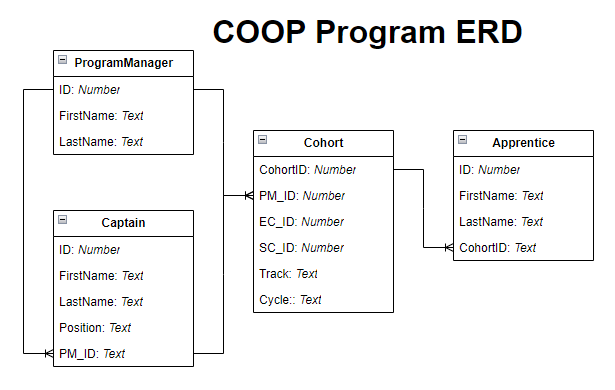
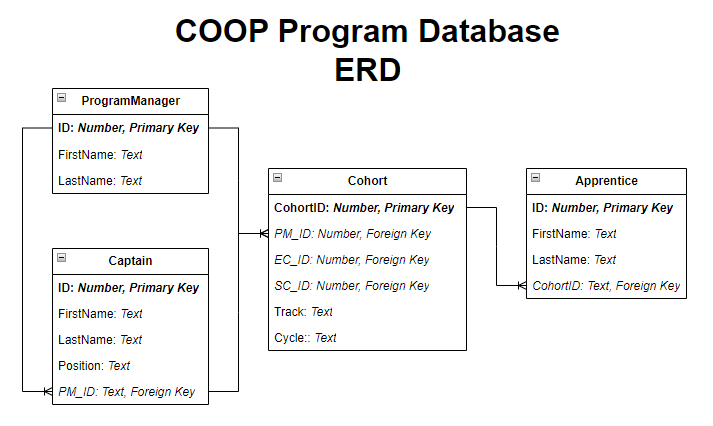
Updated SQL 101 and Added Theory Page

Changed region(s): [[0.0309, 0.1231, 0.9886, 0.9538], [0.2472, 0.0308, 0.865, 0.2154]]

diff --git a/COOP SQL 101 - Theory - Intro to Databases and Relational Databases.md b/COOP SQL 101 - Theory - Intro to Databases and Relational Databases.md
@@ -1,0 +1,146 @@
+# SQL 101 - Intro to Databases and Querying
+
+By: Martin Arroyo
+
+## **Introduction**
+
+Welcome to **SQL 101 - Introduction to Databases and Querying**! In this class, we will cover some of the highlights of the theory behind relational databases as well as introduce you to common SQL query patterns and concepts that you will need to know about to be successful in many analytics roles. The focus of this class is to provide you with a foundational framework of understanding how databases work, their importance in today's digital world, and how these concepts are applied on-the-job.
+
+First, we'll start by providing an overview of the theory and concepts behind relational databases. Then we introduce you to SQL, the language of data. We teach you how to write basic data retrieval queries, as well as how to process and summarize data. 
+
+The content that we cover here is typically delivered over the course of an entire semester at most universities. Our aim is to introduce you to the important concepts that you'll need to know to be effective in your roles. This means that we will not go into much depth when it comes to theory. To help enhance your study, where possible, we include links to external resources that cover those topics at length.
+
+We hope that you come away from this class (as well as the subsequent 102 class) with a better understanding of databases, practical SQL skills to write basic to complex queries, and the excitement to learn more!
+
+## **Databases & Relational Database Concepts**
+
+### **A. What are databases?**
+
+**Databases** are ubiquitous in today's world. Every day, we typically interact with many different databases, whether when we check our phones for updates from our favorite applications or when we go to the store and buy things we need. Without them, we would not be able to store information for very long, and the technology that we have come to depend on would not be able to function without them. But what is a database exactly?
+
+A database is simply an organized collection of structured data that is stored electronically. There are many [different kinds of databases](https://www.simplilearn.com/tutorials/dbms-tutorial/what-are-various-types-of-databases) for a wide variety use cases. For this class, we will focus primarily on the most popular type - **the relational database**. 
+
+While they will not be covered in this course, we must mention **NoSQL databases** if we are discussing relational databases. NoSQL databases can generally be considered databases that are not structured like a relational database. They typically deal with semi-structured or unstructured data, unlike relational databases which impose structure on data by default. There are many different types of NoSQL databases as well, but we won't be covering them here. However, if you are curious, [here is a resource](https://www.ibm.com/topics/nosql-databases) where you can learn more about them. 
+
+A popular feature of relational databases is the language that is used to manage them, **Structured Query Language (`SQL`)**. Unlike relational databases, NoSQL databases - as you might expect from the name - either do not use SQL or don't *just use* SQL. 
+
+### B. **What are relational databases?**
+
+[Here is an optional video](https://youtu.be/NvrpuBAMddw?si=L0Cl9VrACEKoh6gR) that gives you a brief overview of Relational Databases. It may be helpful to watch this short video first, then continue on with the rest of the content.
+
+#### **Entity Relationship Diagrams (ERD)**
+
+We just introduced databases as well as relational databases, and discussed how they differ from NoSQL databases. But what exactly is a relational database?
+
+Simply put, **a relational database is a type of database that stores information in tables which are related (or connected) to one another**. It's good to visualize what we mean by relationships between tables, so let's introduce you to the **Entity Relationship Diagram (ERD)**. ERD's represent a database by modeling the relationships between different entities, or *tables* like so:
+
+![COOP ERD](assets/COOP_ERD.png)
+
+The entities in this ERD should be familiar to you - it's the COOP program structure - except this is how we might model COOP in a database based on the relationships between the different roles in the program. As mentioned earlier, entities can be thought of as the tables in our database. The boxes each represent a table in our database, and the lines between each show which ones are connected. The marks at the end of a line, known as the "Crow's Feet", indicate the type of relationship between two tables. Each table has a name and inside of the box are the attributes/column names along with their data types. We'll cover more about columns and data types a little later on.
+
+As you can see, each of the roles in COOP (Captain, Program Manager, and Student) are represented by a table. Captains and Program Managers (PMs) are connected directly to one another since PMs are their supervisors. Then we see that Apprentices connected to the Cohort, just as you are an apprentice who are assigned to one cohort. Finally, the Cohort is the glue that connects the Captains to Apprentices (and by extension the PMs.)
+
+#### **Types of Relationships**
+
+Earlier, we mentioned that the "Crow's Feet" notation indicated the type of relationship between the two tables. In relational databases, **the type of the relationship between two tables indicates how the rows in one table are related to the rows in another**. This is an important consideration when designing databases as well as when you want to combine the data in two or more tables. **There are three main types of relationships: `One-to-One`, `One-to-Many`, and `Many-to-Many`**. 
+
+Let's imagine we have two tables, `Table A` and `Table B`, that are related:
+- **`One-to-One`**: This means that exactly one row in `Table A` is related to exactly one (and only one) row in `Table B`. An example of this type of relationship would be between a user and their password - one user should have, at most, one password.
+- **`One-to-Many`**: One row in `Table A` can be matched to one or more rows in `Table B`. A real-life example would be the relationship between the `ProgramManager` and `Captain` tables, where one Program Manager supervises many captains, but each captain reports to just one Program Manager.
+- **`Many-to-Many`**: One or more rows in `Table A` can be matched to one or more rows in `Table B`. An example of this is the relationship between the `Apprentice` and `Captain` tables - each `Captain` has multiple Apprentices and each `Apprentice` has multiple Captains.  
+
+<details>
+<summary>Click to see a visual representation of Crow's Foot Notation and Relationship Types</summary>
+<img src="assets/crows-foot.png" alt="Crow's Foot Notation Example">
+</details>
+
+#### **Tables, Columns, and Rows**
+
+In relational databases, our data is stored in a tabular structure (a.k.a. a "table") called a relation. However, it is much more common to refer to relations as tables, so going forward, when will be using the terms interchangeably. **Tables are 2-dimensional structures that store data in rows and columns**. 
+
+**Each table typically represents an "entity" or some "thing" we would like to model**. Using our ERD example from earlier, an `Apprentice` would be considered an entity. 
+
+**Columns represent attributes about an entity**. Continuing with our example, some attributes of an `Apprentice` includes their name and their cohort ID. 
+
+**Rows each represent a single entity record for the table**. In the Apprentices table, each row would represent one Apprentice. 
+
+The structure of tables in a relational database is similar to how we arrange data in spreadsheets (like Excel.)
+
+#### **Data Types and Structure**
+
+**Attributes of an entity have both a type (the kind of data it is) and a value (the data itself.)** For example, the `FirstName` attribute for the `Apprentice` table is text data, so we would consider "text" to be its data type, and a possible value could be "Angela". The data type is very important because columns will only support one data type each. In Excel, you are allowed to input any type of data in a column that you would like - one cell of a column can have a number and the next cell in that same column can have a text value. However, that is where SQL and Excel differ. 
+
+SQL helps impose structure on our data by making it so that all the values in a column must share the same data type. This is necessary when we are doing things making calculations based on our data. As an example, if we summarize the data in a column of numbers, we would want to be sure that each value in that column is indeed a number, otherwise you may get incorrect results or errors.
+
+#### **Keys to Establishing Relationships - Primary Keys and Foreign Keys**
+
+So far, we have seen how entities/tables can be related to one another and the types of relationships they can have (one-to-one, one-to-many, and many-to-many.) But the key (pun fully intended) to establishing these relationships lies in the concept of **Primary Keys** and **Foreign Keys**.
+
+**Primary Keys are a column (or multiple columns) in a table that identify a unique record**. In our COOP example, the `ID` column in the `ProgramManager` table would be considered a primary key because it uniquely identifies a single Program Manager. 
+
+**Foreign Keys are used to formally establish a relationship between two tables in the database and do not need to uniquely identify rows**. Typically, one table will have a column that references the Primary Key of another table. The column in the table that references the Primary Key in this example is called the Foreign Key. One way to think about this is by using a parent-child relationship as an example - the "parent" table in this case is the one with the Primary Key that the "child" table (with the Foreign Key) refers to. This is effectively establishing a one-to-many relationship between the "parent" and "children", since parent's can have one ore more "children" while children (in this scenario!) have one and only parent.  
+
+To illustrate this further, let's look at the `ProgramManager` and `Captain` tables, which have a one-to-many relationship, in our ERD:
+
+![ERD showing the relationship between Program Managers and Captains](assets/COOP-PMs-Captains-relationship.png)
+
+The `PM_ID` column in the `Captain` table is the Foreign Key in this relationship, since it references the `ID` column of `ProgramManager`, which is the Primary Key of that table. Put another way, the relationship between `ProgramManager` and `Captain` is similar to the parent-child example since they are both one-to-many relationships established through the Primary Key(`ID`) in the "parent" table (`ProgramManager`) and the Foreign Key(`PM_ID`) in the "child" table (`Captain`). 
+
+Understanding these relationships is important when we want to combine data from two or more tables, as we will need to know what columns establish that relationship between the tables in order to join them.
+
+Here are some more resources on [Primary Keys](https://www.w3schools.com/sql/sql_primarykey.asp) and [Foreign Keys](https://www.w3schools.com/sql/sql_foreignkey.asp).
+
+#### **Schemas and Metadata**
+
+**Schemas can be a little confusing at first because the term can be used to refer one of two things: the structure of a table or the structure of a database**. When we talk about the schema of a table, we are referring to the table's name as well as the structure of the table, such as the column names and their data types. However, when referring to the structure of a database, the schema describes the tables (e.g. tables names) that are in the database. **So we really have two types of schemas: table schemas and database schemas**. When you hear the word "schema", it could potentially mean either one of these, so it's important to understand the context in which it is mentioned; **when in doubt, clarify whether the table or database schema is being referred to.** 
+
+**Metadata is a set of data that describes another set of data**. Since schemas describe either tables or databases, they are considered a type of metadata. Knowing the metadata of either the table or the database that you are using is important as it gives you critical context and information to help in your analysis.
+
+#### **Normalization, Denormalization, and OLTP vs OLAP**
+
+Normalization and denormalization are data modeling methods that have different goals for data storage and retrieval. **Normalization is used when we want to ensure the consistency and integrity of the data by eliminating redundancy (e.g. duplicate values.)** This is achieved by dividing the tables into smaller sub-tables until redundant data are eliminated. **Denormalization, on the other hand, favors easier querying of the data and achieves this by combining data/tables together, even if it introduces redundancy.**
+
+The normalization method is typically used in **Online Transactional Processing (OLTP) systems, which are use to model real-time transactions, favoring (write) speed, consistency, and data integrity**. Relational databases are used to create this model because of the strong emphasis on structure. **Online Analytical Processing (OLAP) systems, which generally use a denormalized structure for data, are used when querying and analyzing the data is more important than being able to store data quickly and without redundancy**. OLAP systems can be built using relational databases but may also be built using other types of databases.
+
+As data analysts, you may work with databases that are either OLTP or OLAP systems. The most common system used for data analytics is OLAP, which often models data in what are known as data warehouses. Data Warehouses combine data from multiple sources within a business to create a unified, holistic view of the data for reporting and analysis. This is a topic that books are devoted to and is out of the scope of what we will cover in our class. [This article](https://www.oracle.com/database/what-is-a-data-warehouse/) expands on the concept further.  
+
+Normalization, denormalization, OLTP, and OLAP are all concepts that go much deeper than the treatment given here. For our purposes, we will not dive into this further. However, if you would like to learn more, here are some resources you can use:
+
+- [OLTP vs OLAP](https://aws.amazon.com/compare/the-difference-between-olap-and-oltp/)
+- [Normalization vs Denormalization](https://medium.com/analytics-vidhya/database-normalization-vs-denormalization-a42d211dd891#:~:text=Normalization%20is%20the%20technique%20of,to%20make%20data%20retrieval%20faster.)
+
+#### **Relational Database Management System (RDBMS)**
+
+Until now, we have mostly been describing the relational database from a theoretical perspective. **However, when we interact with a relational database on a computer, we do so using a Relational Database Management System (RDBMS)**. The RDBMS essentially brings the relational database model to life and makes it something we can actually use by handling the physical storage of the data. There are quite a few different RDBMS's out there, such as **Postgresql, MySQL, Oracle and SQL Server**. An important thing to note is that each RDBMS uses a slightly different version of SQL, so the syntax can be different for some queries between SQL Server and Postgres, for example. 
+
+**Why use a Relational Database instead of just working with data in Excel (or a similar spreadsheet software)?**
+
+While there are still instances where data is stored exclusively in spreadsheets, this is becoming less and less common. And once a business reaches a certain size, using a database is a necessity. Here are a few reasons why:
+
+1. **RDBMS's can store much more information than spreadsheets can.** Excel, for example, has hard limits on the number of rows and columns that can be stored in both a single sheet as well as a workbook. Even if you are below these limits, Excel can become difficult to use once you are working with larger data sets (think hundreds of thousands 
+to a million rows.)
+2. **RDBMS's allow for many people to collaborate and use the same data source all at once.** While you can share Excel workbooks with one another and even work collaboratively, once you get to more than a handful of people working on updating the same document the process quickly becomes unwieldy. Conflicts begin to creep up more and more often, and there is a good chance that work can be lost or overwritten easily, costing hours of productivity. This is not an issue with RDBMS's as they are designed to handle many people using them all at once.
+3. **Relational Databases and RDBMS's help ensure the integrity and structure of the data.** This is critical when data is updated on a regular basis. Excel does not have mechanisms built in to guarantee the integrity and structure of the data (e.g. Are the data types of each column consistent?)
+4. **RDBMS's provide more security for your data than spreadsheets.** While it is possible to encrypt Excel workbooks, these are not robust against a determined attacker. On the other hand, RDBMS's have access control capabilities built-in which allow you to control who has access to what data and what level of access they should have. They are far more robust to security issues than spreadsheets.
+
+These are the main reasons for using an RDBMS to store data over a spreadsheet. However, there are exceptions where storing data in a spreadsheet may be preferable, such as when the data you need to store is relatively small, it doesn't need to be updated, and it doesn't need to be kept particularly secure. All in all, the decision of what storage method to use should always be tied back to your needs and use case(s). 
+
+### **What is SQL?**
+
+**Structured Query Language (SQL - pronounced *"Sequel"*)** was created in the early 1970s by researchers at IBM based on [the relational model that was described by Edgar F. Codd](https://dl.acm.org/doi/10.1145/362384.362685). It is a domain-specific programming language that is used for querying and maintaining a RDBMS.
+
+SQL is also known as a declarative language. This means that when we write queries in SQL, we are describing the results that we want rather than describing, step-by-step, how the RDBMS should retrieve the data. Since it is declarative, SQL can feel easier to learn because the syntax is simple and simpler to think about than other languages. 
+
+Another important point to reiterate is that SQL itself is just a specification. **Different RDBMS vendors create their own versions of SQL** based on that specification. This is why the syntax between the SQL for one RDBMS will differ (albeit slightly) from that of another RDBMS system. In practice, this means that you should always be aware of what RDBMS you are using so that you know which set of documentation you would need to use.
+
+The rest of the material in SQL 101 is devoted to teaching you the basics of SQL querying that can be applied to just about any version of the language you may encounter.
+
+### What's next?
+
+We have only scratched the surface of the topics that were introduced here. And there are yet more topics that we are not covering in here because to include and properly explain them all would require at least a semesters worth of time. However, as promised, there are other resources that we encourage you to utilize to further your studies and knowledge on databases. Here are some that we recommend:
+
+- [Database Systems - Full Course from Cornell University (Offered through `freecodecamp`)](https://youtu.be/4cWkVbC2bNE?si=YiIIUs7E1ShmJRgc)
+- [Database vs Data Warehouse vs Data Lake (Alex the Analyst)](https://youtu.be/4cWkVbC2bNE?si=YiIIUs7E1ShmJRgc)
+- [Data Warehouse Toolkit, 3rd Edition (Kimball)](https://www.academia.edu/19222417/The_Data_Warehouse_Toolkit_3rd_Edition)
+- [Primary Keys and Foreign Keys Explained](https://youtu.be/B5r8CcTUs5Y?si=asEl57bsIEVpghrE)
+- [SQL Tutorial - Full Database Course for Beginners (Offered through `freecodecamp`)](https://youtu.be/HXV3zeQKqGY?si=kXKxJS0quRQYpZoPs)

diff --git a/README.md b/README.md
@@ -8,7 +8,7 @@ I also recommend this [SQL Cheat Sheet](https://martinmarroyo.github.io/sqlcheat
 
 You can open the notebooks directly in Google Colab by using the links below next to the notebook title:
 
-**SQL 101 Notebook** <a target="_blank" href="https://colab.research.google.com/github/freestackinitiative/coop_sql_notebooks/blob/main/COOP_SQL_101.ipynb">
+**SQL 101 Notebook - Intro to Databases and Querying** <a target="_blank" href="https://colab.research.google.com/github/freestackinitiative/coop_sql_notebooks/blob/2.0/COOP_SQL_101.ipynb">
   <img src="https://colab.research.google.com/assets/colab-badge.svg" alt="Open In Colab"/>
 </a>
 
